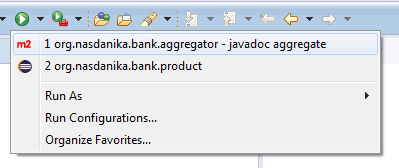
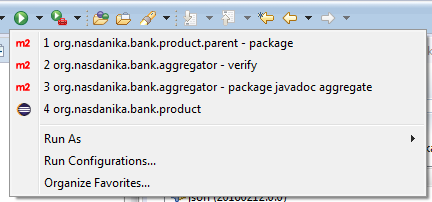
Chapter 0 setup - Build and launch locally

diff --git a/chapter-0-setup/build-and-launch-locally/README.md b/chapter-0-setup/build-and-launch-locally/README.md
@@ -6,9 +6,13 @@ There are two ways to build an Eclipse product in Eclipse.
 
 ### Eclipse Product Export Wizard
 
-For this we'd need to open the product file, in the Exporting section click on "Elipse Product export wizard" link, uncheck "Synchronize before exporting", enter export location and click "Finish".
+For this we'd need to open the product file, in the Exporting section click on "Elipse Product export wizard" link. 
 
-TODO - resolve why complains about xml.
+![export-product](export-product.png)
+
+Uncheck "Synchronize before exporting", enter export location and click "Finish".
+
+![export-dialog](export-dialog.png)
 
 ### Maven builds
 
@@ -16,13 +20,13 @@ A typical Maven/Tycho build is pretty straightforward - run ``mvn clean verify``
 
 Our build process is a bit trickier because we want our product to contain JavaDoc and test results. Therefore there are two pom.xml files which will be used and each will be executed twice with different goals.
 
-Project        | Goals                   | Comment 
----------------|:-----------------------:|:--------
-aggregator     | package                 | The product parent requires the application repository even in order to execute the clean task.   
-product.parent | clean                   | Cleans javadoc output directory in the doc project and test results output directory in the test results project.
-aggregator     | clean javadoc:aggregate | Generates aggregated JavaDoc and puts it to the doc project.  
-aggregator     | verify                  | Builds bundles, executes tests and stores them to the test results project, builds a repository. 
-product.parent | package                 | Uses the repository from the previous step and doc and test results bundles to build an Eclipse product.
+Project        | Goals                           | Comment 
+---------------|:-------------------------------:|:--------
+aggregator     | package                         | The product parent requires the application repository even in order to execute the clean task.   
+product.parent | clean                           | Cleans javadoc output directory in the doc project and test results output directory in the test results project.
+aggregator     | clean package javadoc:aggregate | Generates aggregated JavaDoc and puts it to the doc project.  
+aggregator     | verify                          | Builds bundles, executes tests and stores them to the test results project, builds a repository. 
+product.parent | package                         | Uses the repository from the previous step and doc and test results bundles to build an Eclipse product.
 
 The first row shall be executed only if there is no repository from the previous build, e.g. we build for the first time. However, in this case we don't have to execute product.parent clean. So when we run a build for the first time we can start from the third row.   
 
@@ -52,7 +56,7 @@ Once again we prefer to do everything from Eclipse and so we create another exte
 Winstone port collides with the application port and therefore Winstone shall be down when aggregator verify is being executed. An alternative is to change Winstone port number.
  
 All these steps can be scripted, but in this section we will execute them manually - there is another section dedicated to setting up an automated build. We start from the clean workspace so the sequence would be:
-* aggregator javadoc:aggregate
+* aggregator package javadoc:aggregate
 * aggregator verify
 * Start Winstone
 * product.parent package
@@ -62,7 +66,7 @@ For subsequent builds the sequence would be:
 * Start Winstone
 * product.parent clean
 * Stope Winstone
-* aggregator javadoc:aggregate
+* aggregator package javadoc:aggregate
 * aggregator verify
 * Start Winstone
 * product.parent package
@@ -97,4 +101,22 @@ Then click "Run". This has to be done only once per build configuration. In subs
 
 
 ## Launch
+
+After completing all the build steps there should be an Eclipse product for Windows in the target directory of the  product project:  
+
+![eclipse-product-win](eclipse-product-win.png)
+
+We launch the product by double-clicking on ``eclipse.exe``. A window opens with a familiar OSGi console output:
+
+![product-window](product-window.png)
+ 
+To validate that the application is functional we can open either the test route URL (``http://localhost:8080/nasdanika-bank/router/nasdanika-bank.html``) or the documentation route URL (``http://localhost:8080/nasdanika-bank/router/doc.html``) in a browser.
+
+TODO - screenshot of test results in the doc system.
+
+To shutdown the application type ``shutdown`` in OSGi console and press Enter. If the window doesn't close after a few seconds, type another command, e.g. ``ss`` and press Enter - it should close the window.
+
+## Summary
+
+We built a shippable product which can be deployed to Windows or Linux machines. The next step is to dockerize it. 
 

diff --git a/chapter-0-setup/run-application-in-eclipse.md b/chapter-0-setup/run-application-in-eclipse.md
@@ -1,5 +1,18 @@
 # Run the Application in Eclipse
 
+
+## Cleaning up the product
+
+The wizard generates a feature-based product which includes many plug-ins some of which may not be used by the application. 
+The product must be feature based - otherwise Tycho fails to generate Eclipse product with native launch artifacts.
+
+To reduce "noise" in the documentation system caused by unused bundles and packages the application feature
+can "cleaned up" by removing unnecessary bundles.
+Included feature(s) with unnecessary plug-ins shall be removed, and needed plug-ins from that feature(s) shall be added to the application feature. 
+It can be done through the feature editor, but it might be easier to do it at a text level by copying needed plug-in tags from the included feature.xml to the application feature.xml.   
+
+We will do it with the ``org.nasdanika.feature``.
+
 ## Start
 To run the application in Eclipse we shall open the ``org.nasdanika.bank.product`` file in the ``org.nasdanika.bank.product`` project and click either ``Launch an Eclipse application`` or ``Launch and Eclipse application in Debug mode``.
 
@@ -29,23 +42,6 @@ It takes some time for the documentation system to index pages - we should check
 We are done with our initial launch. To gracefully shutdown the application type ``shutdown`` in the console and press <Enter>. Wait for several seconds and if the application does not exit type another command, e.g. ``ss``:
 
 ![Shutdown app](shutdown-app.png)
-
-## Cleanup the product
-
-The wizard generates a feature-based product which includes many plugins some of which may not be used by the application.
-The product can be cleaned-up by going to Debug/Run configuration and un-checking the unneeded bundles.
-
-![Cleanup product](cleanup-product.png) 
-
-After the cleanup the existing product file shall be deleted or renamed and a new file shall be create from the launch configuration by right-clicking on the product project, selecting "New" and then "Product configuration":
-
-![New product configuration](new-product-configuration-wizard.png) 
-
-After that entering the product file name and selecting an existing launch configuration:
-
-![New product from launch configuration](product-from-launch-configuration.png)
-
-Once a new product file is created it is important to set product ID - otherwise the Maven/Tycho build will fail.
 
 ## Summary
 

diff --git a/SUMMARY.md b/SUMMARY.md
@@ -7,7 +7,7 @@
   * [Explore the documentation system](chapter-0-setup/documentation-system-overview.md)
   * [Explore the application projects](chapter-0-setup/application-projects-overview/README.md)
   * [Build and launch the application locally](chapter-0-setup/build-and-launch-locally/README.md)
-  * [Dockerize the application](chapter-0-setup/dockerize.md)
+  * [Dockerize the application](chapter-0-setup/dockerize/README.md)
   * [Set up an automated build](chapter-0-setup/automated-build.md)
   * [Summary](chapter-0-setup/summary.md)  
 * [User Stories](chapter-1-user-stories/README.md)

diff --git a/chapter-0-setup/application-projects-overview/README.md b/chapter-0-setup/application-projects-overview/README.md
@@ -157,7 +157,7 @@ This project also contains a tests product definition - it will be used to execu
 ![target](target.png)
 
 Target project contains target definition which was used to set up a target platform. 
-The target definition can also be used during the build by adding it to the list of modules to the aggregator pom.xml
+The target definition can also be used during the build by adding it to the list of modules to the aggregator pom.xml and un-commenting ``<target> ... </target>`` section in the parent pom.xml. 
 
 ## org.nasdanika.bank.tests
 ![tests](tests.png)

diff --git a/chapter-0-setup/README.md b/chapter-0-setup/README.md
@@ -19,7 +19,7 @@ So, what do we do at this stage with such limited information available? We will
 * [Explore the documentation system](documentation-system-overview.md)
 * [Explore the application projects](application-projects-overview/README.md)
 * [Build and launch the application locally](build-and-launch-locally/README.md)
-* [Dockerize the application](dockerize.md)
+* [Dockerize the application](dockerize/README.md)
 * [Set up an automated build](automated-build.md)
   * Publish code to GitHub,
   * Set up build/test job on CircleCI,

diff --git a/conclusion.md b/conclusion.md
@@ -11,6 +11,6 @@ You may need to remove the running platform bundles.
 * Boxing
 * Scheduler
 * Function
-* Promises
+* Promises - unified approach - "invoke" people and third parties.
 * Rules
 * SCA - template model, instances in the repository, promised execution?
